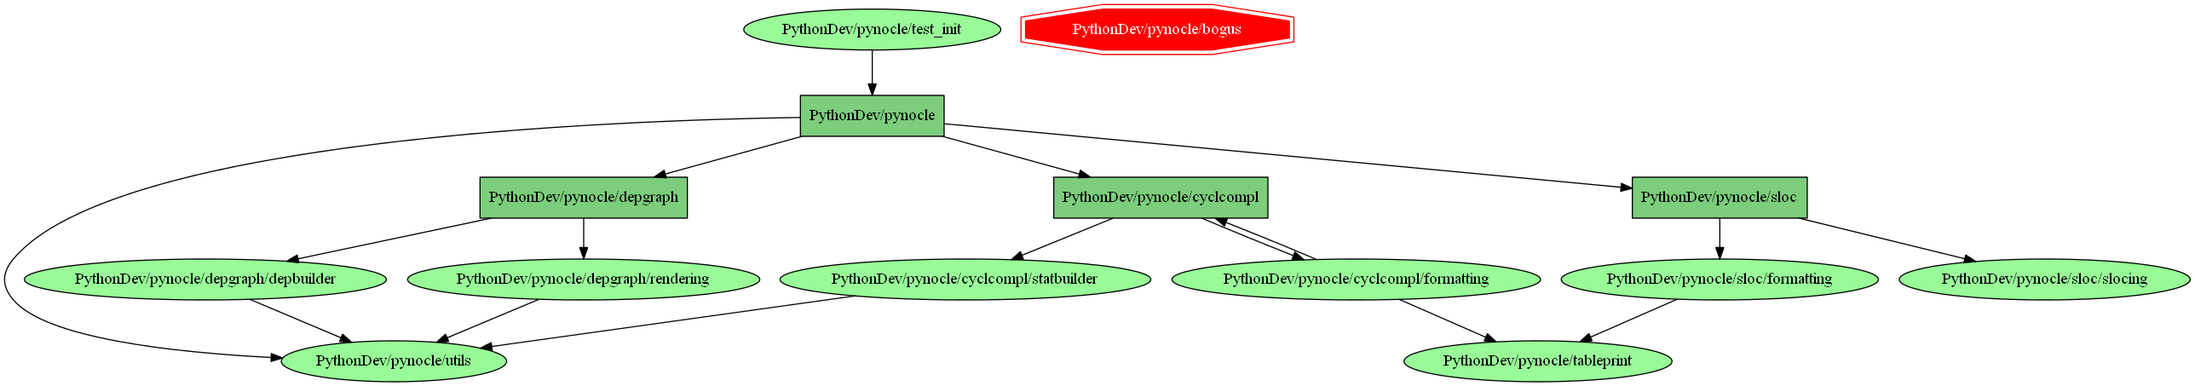
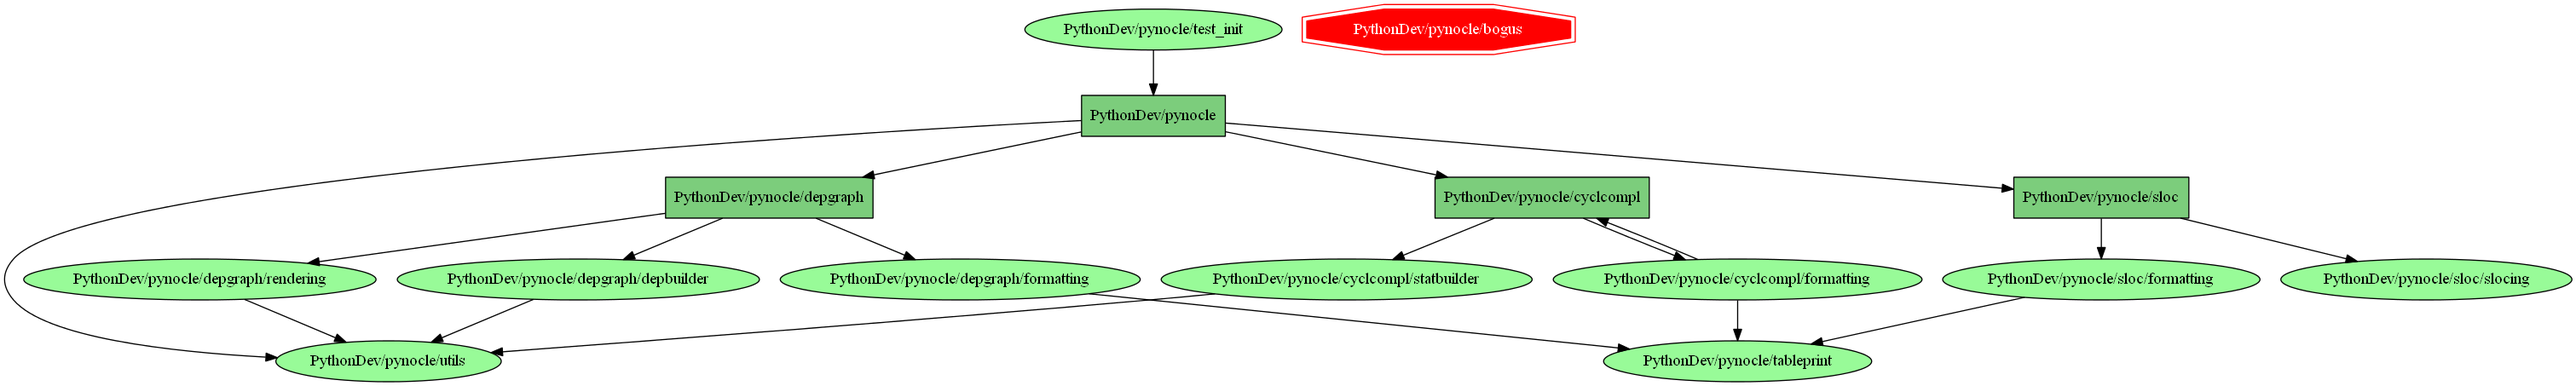
Added coupling metrics through DependencyGroup class Added reporting through depgraph/formatting.py's CouplingTextFormatter Added generate_coupling_report and added output into   exampleoutput/report_coupling.txt Fixed a couple minor bugs (extra use of find_all, made html jumppage paths   write alph

diff --git a/exampleoutput/report_covhtml/test_init.html b/exampleoutput/report_covhtml/test_init.html
@@ -5,7 +5,7 @@
     
     
     <meta http-equiv='X-UA-Compatible' content='IE=emulateIE7' />
-    <title>Coverage for test_init: 60%</title>
+    <title>Coverage for test_init: 30%</title>
     <link rel='stylesheet' href='style.css' type='text/css'>
     <script type='text/javascript' src='jquery-1.4.3.min.js'></script>
     <script type='text/javascript' src='jquery.hotkeys.js'></script>
@@ -20,13 +20,13 @@
 <div id='header'>
     <div class='content'>
         <h1>Coverage for <b>test_init</b> :
-            <span class='pc_cov'>60%</span>
+            <span class='pc_cov'>30%</span>
         </h1>
         <img id='keyboard_icon' src='keybd_closed.png'>
         <h2 class='stats'>
-            5 statements
+            10 statements
             <span class='run hide_run shortkey_r' onclick='coverage.toggle_lines(this, "run")'>3 run</span>
-            <span class='mis shortkey_m' onclick='coverage.toggle_lines(this, "mis")'>2 missing</span>
+            <span class='mis shortkey_m' onclick='coverage.toggle_lines(this, "mis")'>7 missing</span>
             <span class='exc shortkey_x' onclick='coverage.toggle_lines(this, "exc")'>0 excluded</span>
             
         </h2>
@@ -66,6 +66,13 @@
 <p id='n4' class='stm run hide_run'><a href='#n4'>4</a></p>
 <p id='n5' class='stm mis'><a href='#n5'>5</a></p>
 <p id='n6' class='stm mis'><a href='#n6'>6</a></p>
+<p id='n7' class='stm mis'><a href='#n7'>7</a></p>
+<p id='n8' class='stm mis'><a href='#n8'>8</a></p>
+<p id='n9' class='pln'><a href='#n9'>9</a></p>
+<p id='n10' class='stm mis'><a href='#n10'>10</a></p>
+<p id='n11' class='stm mis'><a href='#n11'>11</a></p>
+<p id='n12' class='pln'><a href='#n12'>12</a></p>
+<p id='n13' class='stm mis'><a href='#n13'>13</a></p>
                 
             </td>
             <td class='text' valign='top'>
@@ -74,7 +81,14 @@
 <p id='t3' class='pln'><span class='strut'>&nbsp;</span></p>
 <p id='t4' class='stm run hide_run'><span class='key'>if</span> <span class='nam'>__name__</span> <span class='op'>==</span> <span class='str'>&#39;__main__&#39;</span><span class='op'>:</span><span class='strut'>&nbsp;</span></p>
 <p id='t5' class='stm mis'>&nbsp; &nbsp; <span class='nam'>m</span> <span class='op'>=</span> <span class='nam'>pynocle</span><span class='op'>.</span><span class='nam'>Monocle</span><span class='op'>(</span><span class='nam'>outputdir</span><span class='op'>=</span><span class='str'>&#39;exampleoutput&#39;</span><span class='op'>)</span><span class='strut'>&nbsp;</span></p>
-<p id='t6' class='stm mis'>&nbsp; &nbsp; <span class='nam'>m</span><span class='op'>.</span><span class='nam'>makeawesome</span><span class='op'>(</span><span class='nam'>nose</span><span class='op'>.</span><span class='nam'>run</span><span class='op'>)</span><span class='strut'>&nbsp;</span></p>
+<p id='t6' class='stm mis'>&nbsp; &nbsp; <span class='key'>try</span><span class='op'>:</span><span class='strut'>&nbsp;</span></p>
+<p id='t7' class='stm mis'>&nbsp; &nbsp; &nbsp; &nbsp; <span class='nam'>m</span><span class='op'>.</span><span class='nam'>makeawesome</span><span class='op'>(</span><span class='nam'>nose</span><span class='op'>.</span><span class='nam'>run</span><span class='op'>)</span><span class='strut'>&nbsp;</span></p>
+<p id='t8' class='stm mis'>&nbsp; &nbsp; <span class='key'>except</span> <span class='nam'>TypeError</span> <span class='key'>as</span> <span class='nam'>exc</span><span class='op'>:</span><span class='strut'>&nbsp;</span></p>
+<p id='t9' class='pln'>&nbsp; &nbsp; &nbsp; &nbsp; <span class='com'>#Under debugger in pycharm, it uses the wrong coverage module!</span><span class='strut'>&nbsp;</span></p>
+<p id='t10' class='stm mis'>&nbsp; &nbsp; &nbsp; &nbsp; <span class='key'>if</span> <span class='nam'>exc</span><span class='op'>.</span><span class='nam'>args</span><span class='op'>[</span><span class='num'>0</span><span class='op'>]</span> <span class='op'>==</span> <span class='str'>&quot;__init__() got an unexpected keyword argument &#39;data_file&#39;&quot;</span><span class='op'>:</span><span class='strut'>&nbsp;</span></p>
+<p id='t11' class='stm mis'>&nbsp; &nbsp; &nbsp; &nbsp; &nbsp; &nbsp; <span class='nam'>m</span><span class='op'>.</span><span class='nam'>makeawesome_nocover</span><span class='op'>(</span><span class='op'>)</span><span class='strut'>&nbsp;</span></p>
+<p id='t12' class='pln'>&nbsp; &nbsp; &nbsp; &nbsp; <span class='key'>else</span><span class='op'>:</span><span class='strut'>&nbsp;</span></p>
+<p id='t13' class='stm mis'>&nbsp; &nbsp; &nbsp; &nbsp; &nbsp; &nbsp; <span class='key'>raise</span><span class='strut'>&nbsp;</span></p>
                 
             </td>
         </tr>

diff --git a/exampleoutput/report_covhtml/index.html b/exampleoutput/report_covhtml/index.html
@@ -17,7 +17,7 @@
 <div id='header'>
     <div class='content'>
         <h1>Coverage report:
-            <span class='pc_cov'>60%</span>
+            <span class='pc_cov'>30%</span>
         </h1>
         <img id='keyboard_icon' src='keybd_closed.png'>
     </div>
@@ -55,22 +55,22 @@
         <tfoot>
             <tr class='total'>
                 <td class='name left'>Total</td>
-                <td>5</td>
-                <td>2</td>
+                <td>10</td>
+                <td>7</td>
                 <td>0</td>
                 
-                <td class='right'>60%</td>
+                <td class='right'>30%</td>
             </tr>
         </tfoot>
         <tbody>
             
             <tr class='file'>
                 <td class='name left'><a href='test_init.html'>test_init</a></td>
-                <td>5</td>
-                <td>2</td>
+                <td>10</td>
+                <td>7</td>
                 <td>0</td>
                 
-                <td class='right'>60%</td>
+                <td class='right'>30%</td>
             </tr>
             
         </tbody>

diff --git a/exampleoutput/index.html b/exampleoutput/index.html
@@ -3,14 +3,16 @@
     <title>Project Metrics, generated by pynocle.</title>
   </head>
   <body>
-      <a href="report_covhtml\index.html">report_covhtml\index.html</a>
+      <a href="depgraph.png">depgraph.png</a>
+      <br />
+      <a href="report_coupling.txt">report_coupling.txt</a>
       <br />
       <a href="report_coverage.txt">report_coverage.txt</a>
+      <br />
+      <a href="report_covhtml\index.html">report_covhtml\index.html</a>
       <br />
       <a href="report_cyclcompl.txt">report_cyclcompl.txt</a>
       <br />
       <a href="report_sloc.txt">report_sloc.txt</a>
-      <br />
-      <a href="depgraph.png">depgraph.png</a>
   </body>
 </html>

diff --git a/__init__.py b/__init__.py
@@ -104,11 +104,22 @@ def generate_dependency_graph(codefilenames, reportfilename, renderer_factory=No
     renderer: A callable that returns an depgraph.IRenderer instance and takes a collection of depgraph.Dependency
         instances and a collection of filenames that failed to parse as its args.  Defaults to depgraph.DefaultRenderer
     """
-    depb = depgraph.DepBuilder(utils.find_all(codefilenames))
+    depb = depgraph.DepBuilder(codefilenames)
     renderer_factory = renderer_factory or depgraph.DefaultRenderer
     renderer = renderer_factory(depb.dependencies, depb.failed)
     renderer.render(reportfilename)
-    
+
+def generate_coupling_report(codefilenames, reportfilename, formatter_factory=None):
+    """Generates a report for Afferent and Efferent Coupling between all modules in codefilenames, saved to
+    reportfilename.
+    """
+    depb = depgraph.DepBuilder(codefilenames)
+    depgroup = depgraph.DependencyGroup(depb.dependencies, depb.failed)
+    formatter_factory = formatter_factory or depgraph.CouplingTextFormatter
+    with open(reportfilename, 'w') as f:
+        depgraph.format_coupling(depgroup, formatter_factory(f))
+
+
 def _generate_html_jump_str(htmlfilename, paths):
     """Generates the html contents for the jump page."""
     htmltemplate = '\n'.join(
@@ -136,7 +147,7 @@ def generate_html_jump(filename, *paths):
     paths: Paths to all files the resultant file should display links to.
     """
     with open(filename, 'w') as f:
-        f.write(_generate_html_jump_str(filename, paths))
+        f.write(_generate_html_jump_str(filename, sorted(paths)))
 
 class Monocle(object):
     """Class that manages the filenames and default paths for the monocle methods.  Methods are the same as
@@ -144,8 +155,9 @@ class Monocle(object):
     """
     def __init__(self, outputdir='output', coveragedata_filename='.coverage', coverhtml_dir='report_covhtml',
                  coverreport_filename='report_coverage.txt', cyclcompl_filename='report_cyclcompl.txt',
-                 sloc_filename='report_sloc.txt', depgraph_filename='depgraph.png', htmljump_filename='index.html',
-                 files_and_folders=(os.getcwd(),)):
+                 sloc_filename='report_sloc.txt', depgraph_filename='depgraph.png',
+                 coupling_filename='report_coupling.txt',
+                 htmljump_filename='index.html', files_and_folders=(os.getcwd(),)):
         self.outputdir = outputdir
         join = lambda x: os.path.join(self.outputdir, x)
         self.coveragedata_filename = join(coveragedata_filename)
@@ -154,6 +166,7 @@ class Monocle(object):
         self.cyclcompl_filename = join(cyclcompl_filename)
         self.sloc_filename = join(sloc_filename)
         self.depgraph_filename = join(depgraph_filename)
+        self.coupling_filename = join(coupling_filename)
         self.htmljump_filename = join(htmljump_filename)
         self.filenames = utils.find_all(files_and_folders)
         self._filesforjump = []
@@ -185,6 +198,10 @@ class Monocle(object):
         self._filesforjump.append(self.depgraph_filename)
         return generate_dependency_graph(self.filenames, self.depgraph_filename, renderer_factory)
 
+    def generate_coupling_report(self, formatter_factory=None):
+        self._filesforjump.append(self.coupling_filename)
+        return generate_coupling_report(self.filenames, self.coupling_filename, formatter_factory)
+    
     def generate_html_jump(self):
         """Generates an html page that links to any generated reports."""
         return generate_html_jump(self.htmljump_filename, *self._filesforjump)
@@ -202,5 +219,6 @@ class Monocle(object):
         self.generate_cyclomatic_complexity()
         self.generate_sloc()
         self.generate_dependency_graph()
+        self.generate_coupling_report()
         self.generate_html_jump()
 

diff --git a/depgraph/formatting.py b/depgraph/formatting.py
@@ -1,0 +1,68 @@
+import abc
+import sys
+
+import tableprint
+
+def format_coupling(dependencygroup, couplingformatter):
+    couplingformatter.format_report_header()
+    couplingformatter.format_dependencygroup(dependencygroup)
+    couplingformatter.format_report_footer()
+    
+class ICouplingFormatter(object):
+    __metaclass__ = abc.ABCMeta
+
+    @abc.abstractmethod
+    def outstream(self):
+        """Returna  file-like object that will be written to."""
+
+    @abc.abstractmethod
+    def format_report_header(self):
+        """Writes the data that should be at the beginning of the report file to self.outstream()."""
+
+    def format_report_footer(self):
+        """Writes the information that should be at the bottom of the report.  Usually a no-op."""
+
+    @abc.abstractmethod
+    def format_dependencygroup(self, dependencygroup):
+        """Writes all the data in dependencygroup to self.outstream()."""
+
+
+class CouplingTextFormatter(ICouplingFormatter):
+    """Functionality for formatting SLOC info into a readable file."""
+    def __init__(self, out=sys.stdout):
+        self.out = out
+
+    def outstream(self):
+        return self.out
+    
+    def format_report_header(self):
+        """Prints out a SLOC explanation and header to self.out."""
+        self.out.write('Afferent and Efferent Coupling\n')
+        self.out.write('Measures the coupling between modules.\n'
+            'Afferent coupling (Ca) is the number of modules that use a given module.  0 can indicate dead code.\n'
+            'Efferent coupling (Ce)is the number of modules a given module imports.  A high value can indicate a\n'
+            'brittle module.\n'
+            'Instability (I) is the ratio of Ce to total coupling. I = Ce / (Ce + Ca). Indicates the\n'
+            "module's resilience to change between 0 (completely stable) and 1 (unstable).\n\n")
+
+    def _calc_instability(self, ca, ce):
+        """Calculate the instability ratio between ca and ce and returns it as a string."""
+        if not ca + ce:
+            return str(0)
+        caf, cef = float(ca), float(ce)
+        instab = cef / (cef + caf)
+        formatted = '%.1f' % instab
+        return formatted
+
+    def format_dependencygroup(self, dependencygroup):
+        header = 'Filename', 'Ca', 'Ce', 'I'
+        c = tableprint.JUST_C
+        justs = tableprint.JUST_L, c, c, c, c, c, c, c, c
+        rows = []
+        sortedfilenames = sorted(dependencygroup.depnode_to_ca.keys())
+        for f in sortedfilenames:
+            ca = dependencygroup.depnode_to_ca[f]
+            ce = dependencygroup.depnode_to_ce[f]
+            rows.append([f, str(ca), str(ce), self._calc_instability(ca, ce)])
+        tbl = tableprint.Table(header, rows, just=justs)
+        tbl.write(self.out)

diff --git a/depgraph/depbuilder.py b/depgraph/depbuilder.py
@@ -18,6 +18,49 @@ class Dependency(object):
         yield self.startpt
         yield self.endpt
 
+    def __eq__(self, other):
+        if isinstance(other, Dependency):
+            return other.startpt == self.startpt and other.endpt == self.endpt
+        return NotImplemented
+
+    def __ne__(self, other):
+        result = self.__eq__(other)
+        if result is NotImplemented:
+            return True
+        return not result
+
+
+class DependencyGroup(object):
+    def __init__(self, dependencies, failed=()):
+        self.failed = failed
+        self.dependencies = dependencies
+        self.allstartpts, self.allendpts = zip(*dependencies)
+        self.depnode_to_ca = self._calc_coupling(self.allstartpts)
+        self.depnode_to_ce = self._calc_coupling(self.allendpts)
+        #allstartpts and allendpts will be of equal size, but not equal contents- we want to make sure our coupling
+        #dicts have the same keys so we have all metrics for all modules!
+        for d in self.depnode_to_ca, self.depnode_to_ce:
+            for key in self.allstartpts + self.allendpts:
+                d.setdefault(key, 0)
+
+    def _calc_coupling(self, depnodes):
+        """Return a dict where keys are all unique items in depnodes and values are the number of times
+        those items occur.
+        """
+        #This method can be optimized if it ever becomes a bottleneck
+        result = {}
+        depnodecopy = list(depnodes)
+        unique = set(depnodes)
+        for item in unique:
+            count = 0
+            for i in range(len(depnodecopy) - 1, 0, -1): #we're modifying depnodecopy inside loop
+                if depnodecopy[i] == item: #Increment and remove the item so we don't have to reiterate it
+                    depnodecopy.pop(i)
+                    count += 1
+            result[item] = count
+        return result
+
+
 class DepBuilder:
     """Builds dependencies between modules, starting from all modules in filenames.  Dependencies are available
     as a list of Dependency instances as DepBuilder.dependencies.  Modules that could not be parsed are available as

diff --git a/test_init.py b/test_init.py
@@ -3,4 +3,11 @@ import pynocle
 
 if __name__ == '__main__':
     m = pynocle.Monocle(outputdir='exampleoutput')
-    m.makeawesome(nose.run)
+    try:
+        m.makeawesome(nose.run)
+    except TypeError as exc:
+        #Under debugger in pycharm, it uses the wrong coverage module!
+        if exc.args[0] == "__init__() got an unexpected keyword argument 'data_file'":
+            m.makeawesome_nocover()
+        else:
+            raise

diff --git a/depgraph/__init__.py b/depgraph/__init__.py
@@ -1,4 +1,7 @@
 import depbuilder
 from depbuilder import DepBuilder
+from depbuilder import DependencyGroup
+import formatting
+from formatting import ICouplingFormatter, CouplingTextFormatter, format_coupling
 import rendering
 from rendering import IRenderer, DefaultRenderer
